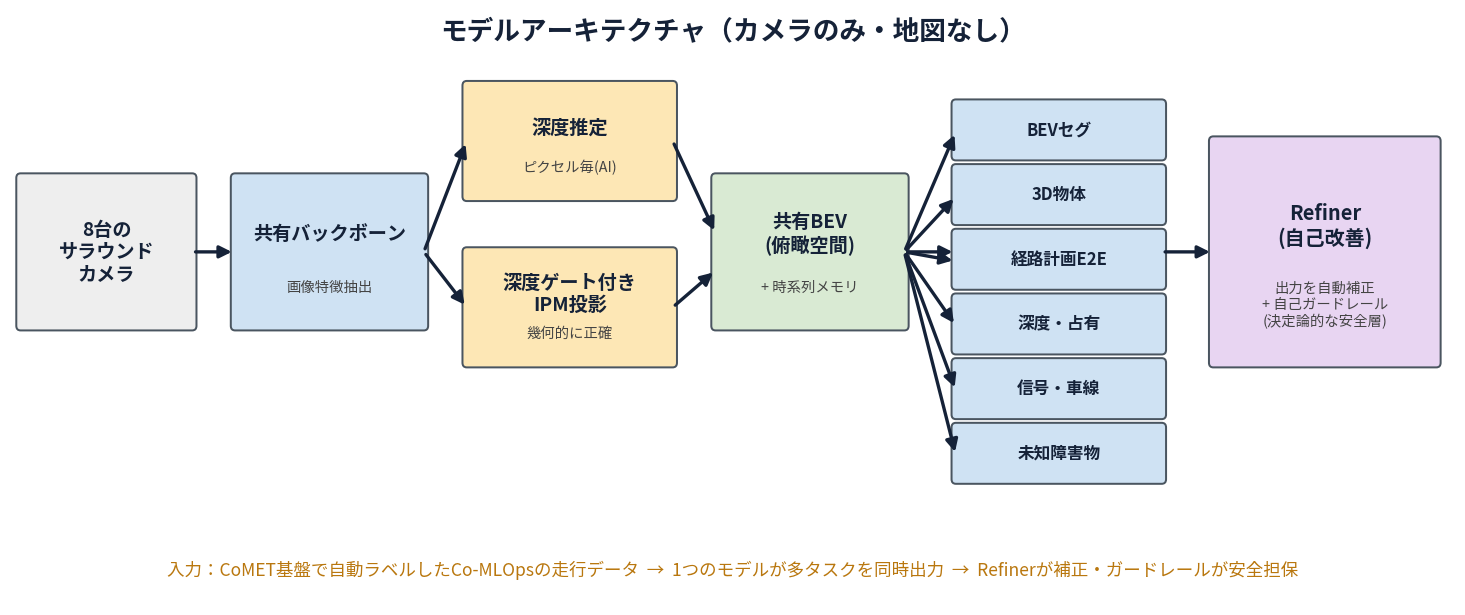
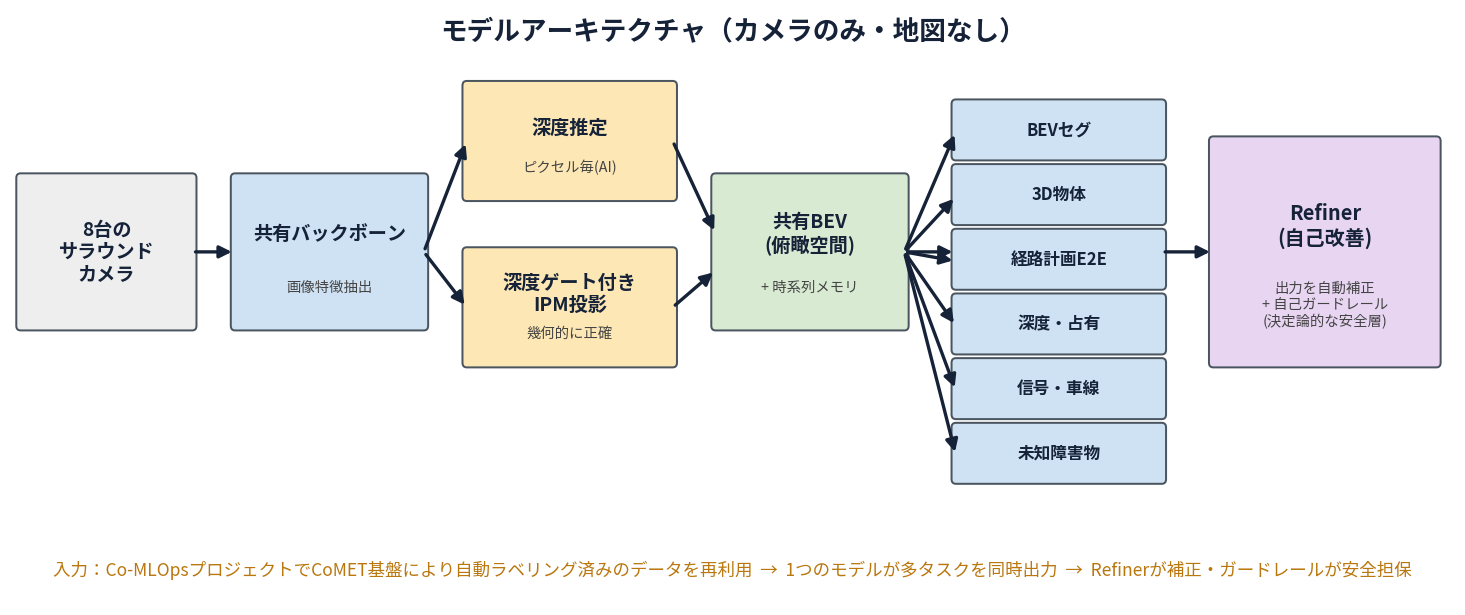
decks: clarify data as REUSED from the Co-MLOps project (already auto-labeled by CoMET)
CEO deck: Zero-Human-Annotation slide + architecture slide + architecture
diagram note now state the training data is reused from the Co-MLOps project,
already auto-labeled by CoMET (no new human labels). Model-arch deck data
slide updated likewise.

Changed region(s): [[0.0614, 0.8959, 0.9522, 0.9577], [0.0307, 0.8959, 0.0614, 0.9268]]

diff --git a/build_pptx_model_arch.py b/build_pptx_model_arch.py
@@ -402,7 +402,7 @@ bullets(s, [
 # ---------- 15 data source ----------
 s = slide("Data & auto-label foundation")
 bullets(s, [
-    ("Data: Co-MLOps driving data.", 0, ACC),
+    ("Data: reused from the Co-MLOps project (already auto-labeled).", 0, ACC),
     ("Auto-label platform: CoMET.", 0, ACC),
     (1, "LiDAR-accumulated, geometry-consistent, consensus ground truth."),
     (1, "Zero human annotation — 7,147 scenes / ~1.05M frames / ~60 h so far."),
